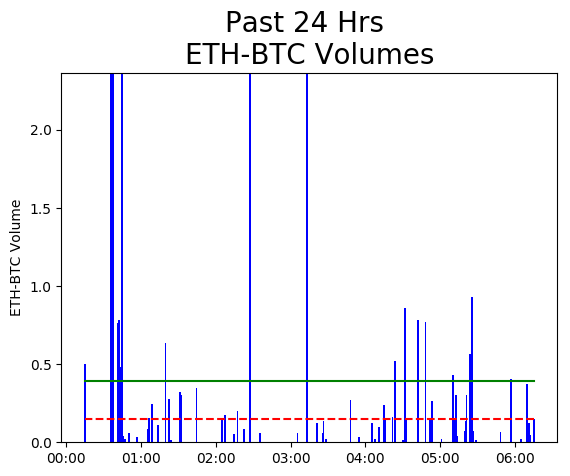
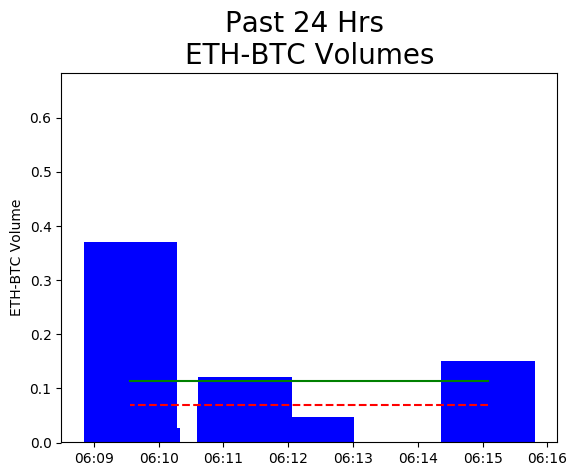
15/01/2019-07:29:20

Changed region(s): [[0.0298, 0.1471, 0.9842, 0.9706], [0.2982, 0.0, 0.7754, 0.1471]]

diff --git a/coins/daily/ETH-BTC.html b/coins/daily/ETH-BTC.html
@@ -8,31 +8,31 @@
   </tr>
   <tr>
     <th>AllTime</th>
-    <td><b>M </b>-55.57% </td>
-    <td><b>A </b>-53.15%</td>
+    <td><b>M </b>-55.44% </td>
+    <td><b>A </b>-52.94%</td>
   </tr>
   <tr>
     <th>Min/Max</th>
-    <td>0.03280000</td>
-    <td>0.03334513</td>
+    <td>0.03313472</td>
+    <td>0.03322928</td>
   </tr>
   <tr>
     <th>Median/Average</th>
-    <td>0.03310391</td>
-    <td>0.03305119</td>
+    <td>0.03319422</td>
+    <td>0.03319593</td>
   </tr>
   <tr>
     <th>Min/Max Threshold</th>
-    <td>0.03312800</td>
-    <td>0.03301168</td>
+    <td>0.03346607</td>
+    <td>0.03289699</td>
   </tr>
   <tr>
     <th>Number of rows</th>
-    <td>350</td>
+    <td>9</td>
     <td> </td>
   </tr>
   <tr>
-    <td>0.03289162</td>
-    <td>0.03290000</td>
-    <td>0.03290000</td>
+    <td>0.03322928</td>
+    <td>0.03321716</td>
+    <td>0.03321060</td>
   </tr>

diff --git a/coins/Vdaily/ETH-BTC.html b/coins/Vdaily/ETH-BTC.html
@@ -5,28 +5,28 @@
     <th>Market</th>
     <td>ETH-BTC</td>
     <td>Total-></td>
-    <td>138.04234977</td>
+    <td>1.02495864</td>
   </tr>
   <tr>
     <th>AllTime</th>
     <td>Change</td>
-    <td><b>M </b>84.72% </td>
-    <td><b>A </b>20.15%</td>
+    <td><b>M </b>-15.18% </td>
+    <td><b>A </b>-65.31%</td>
   </tr>
   <tr>
     <th>Min/Max</th>
-    <td>0.00000001</td>
-    <td>6.05933691</td>
+    <td>0.00059210</td>
+    <td>0.37089143</td>
     <td></td>
   </tr>
   <tr>
     <th>Median/Average</th>
-    <td>0.15070941</td>
-    <td>0.39440671</td>
+    <td>0.06920351</td>
+    <td>0.11388429</td>
     <td></td>
   </tr>
   <tr>
     <th>Number of rows</th>
-    <td>350</td>
+    <td>9</td>
     <td> </td>
   </tr>
